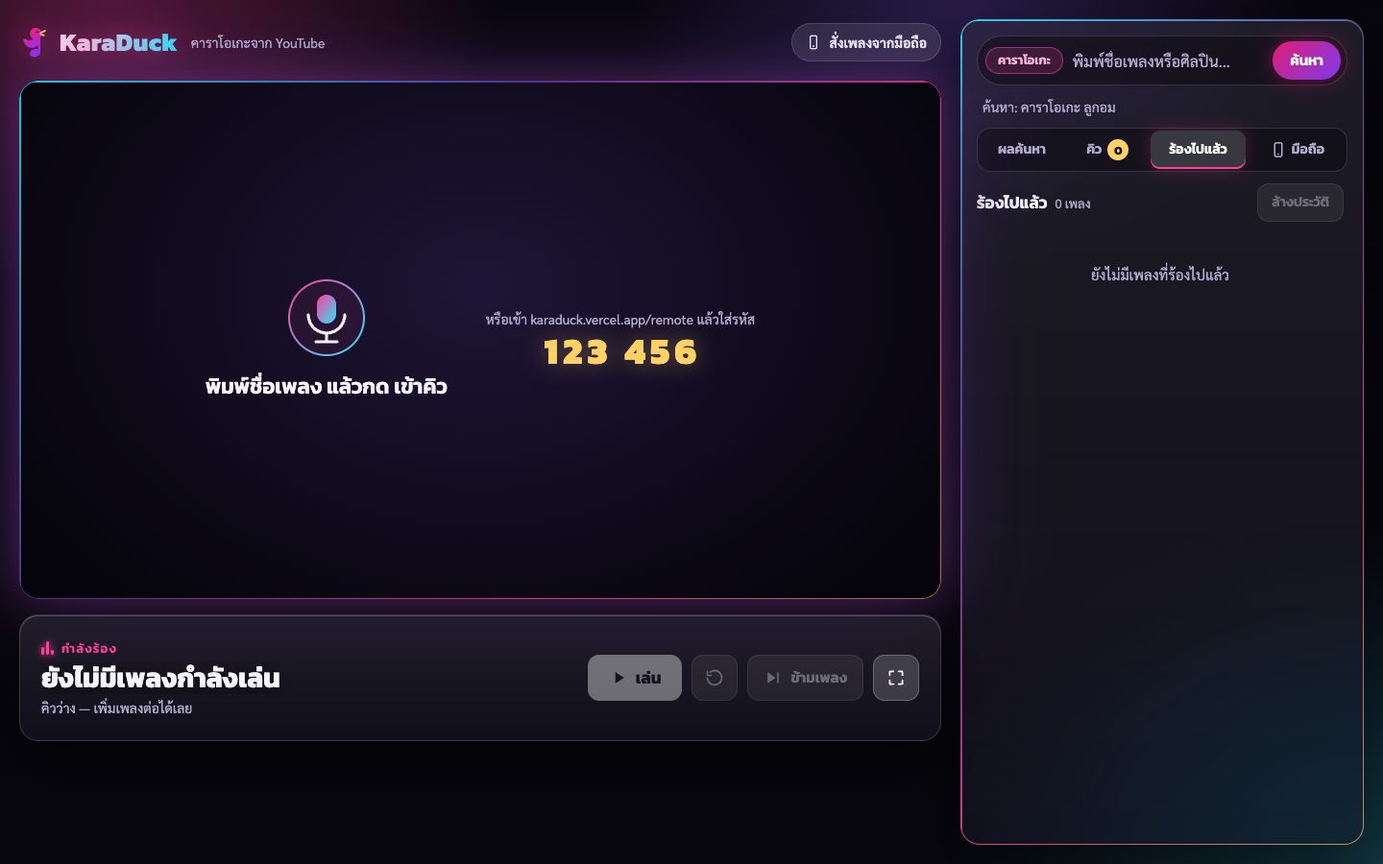
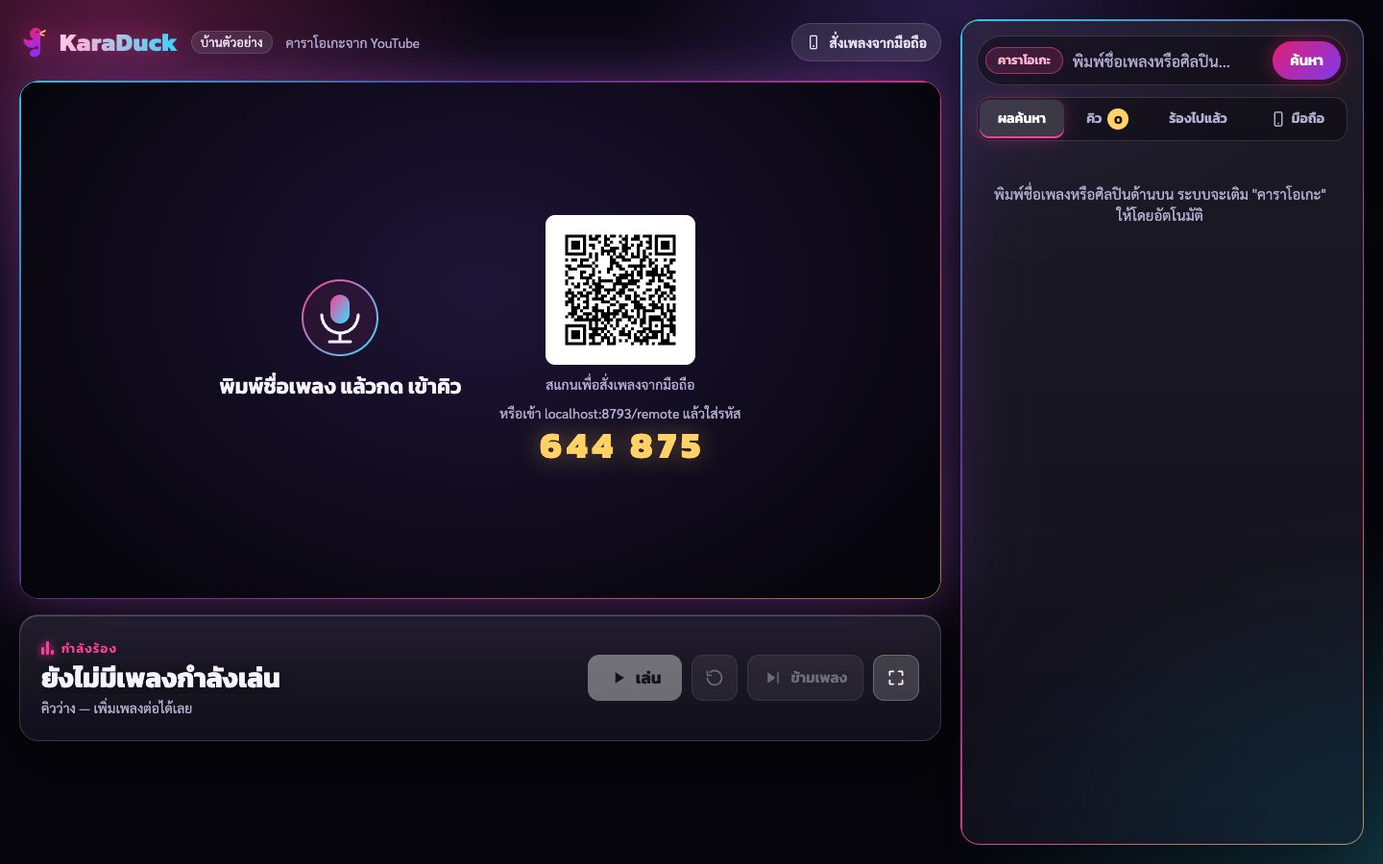
docs: make the docs host-neutral and add a self-hosting guide
Removes references to the author's own deployment; anyone can install
KaraDuck on their own Vercel and Firebase projects.

diff --git a/docs/INSTALL.md b/docs/INSTALL.md
@@ -1,0 +1,243 @@
+# ติดตั้ง KaraDuck บน Vercel และ Firebase ของคุณเอง
+
+KaraDuck ไม่มีเว็บกลางให้ใช้ คู่มือนี้ใช้บัญชีและทรัพยากรของคุณทั้งหมด
+`https://<เว็บของคุณ>` หมายถึงที่อยู่ที่คุณได้หลังนำขึ้น Vercel เช่น `https://your-app.vercel.app`
+ค่าที่มีคำว่า `your-project-id`, `YOUR_...` และอีเมลตัวอย่างด้านล่างต้องแทนด้วยค่าของคุณ
+คำสั่งในคู่มือนี้ให้รันจากโฟลเดอร์โปรเจกต์ ยกเว้นที่ระบุเป็นอย่างอื่น
+
+## 1. เตรียมบัญชีและเครื่องมือ
+
+- บัญชี Google สำหรับ Firebase และบัญชี Vercel
+- Vercel แผนฟรีใช้ได้สำหรับการใช้ส่วนตัวที่ไม่ใช่เชิงพาณิชย์ ตรวจเงื่อนไขและโควตาในบัญชีก่อนใช้จริง
+- Node.js 22 ขึ้นไป (มี npm มาด้วย) และ Git ตรวจด้วย `node --version`, `npm --version`, `git --version`
+- ติดตั้ง Vercel CLI และเข้าสู่ระบบตามคำแนะนำที่ปรากฏ:
+
+```bash
+npm i -g vercel
+vercel login
+```
+
+## 2. ดึงโค้ดและทดสอบ
+
+บน GitHub กด Fork เพื่อเก็บสำเนาไว้ในบัญชีของคุณ แล้วกด Code → HTTPS → คัดลอก URL
+หรือคัดลอก URL ของต้นฉบับเพื่อ clone โดยตรง จากนั้นแทน URL ตัวอย่างในคำสั่งนี้:
+
+```bash
+git clone https://github.com/YOUR_ACCOUNT/YOUR_REPOSITORY.git
+cd YOUR_REPOSITORY
+npm test
+```
+
+โปรเจกต์ไม่มี dependency ให้ติดตั้งและไม่มีขั้น build ไม่ต้องรัน `npm install`
+ผลทดสอบต้องไม่มีรายการ fail ก่อนทำต่อ
+
+## 3. ลองบนเครื่องก่อน โดยไม่ต้องมี Firebase
+
+```bash
+node server.mjs
+```
+
+เปิดลิงก์เจ้าของที่โปรแกรมพิมพ์ออกมาในเทอร์มินัล ลิงก์นี้ให้สิทธิ์ควบคุมห้อง เก็บเป็นส่วนตัว
+ครั้งแรกสร้างห้อง “บ้าน” และบันทึกข้อมูลใน `data/rooms.json` กับกุญแจใน `data/secrets.json`
+รีสตาร์ตแล้วใช้ข้อมูลเดิม หยุดด้วย Ctrl+C
+หน้าเว็บอยู่ที่ `http://localhost:8791` ส่วนมือถือของแขกต้องเชื่อมต่อถึงเครื่องนี้ได้ จึงใช้ที่อยู่เครือข่ายของเครื่องแทน localhost
+
+ถ้าต้องการดูหน้าตาโดยไม่ใช้ห้องจริง เปิด `http://localhost:8791/?demo=1`
+เลือกแท็บด้วย `&tab=results`, `&tab=queue`, `&tab=history`, `&tab=remote` และเพิ่ม `&idle=1` เพื่อดูจอว่าง
+โหมดนี้ใช้สาธิตหน้าตา ไม่ใช่ห้องให้แขกเข้าร่วม
+
+หากพอร์ตถูกใช้ หรืออยากแยกข้อมูลทดลอง:
+
+```bash
+PORT=8792 HOST=127.0.0.1 DATA_DIR=./data-dev node server.mjs
+```
+
+ตัวอย่างนี้รับการเชื่อมต่อจากเครื่องเดียว เปิด `http://localhost:8792` และเก็บข้อมูลใน `data-dev`
+
+## 4. สร้าง Firebase
+
+1. เข้า Firebase Console ด้วยบัญชี Google เลือก Add project ตั้งชื่อโปรเจกต์ แล้วสร้างจนเสร็จ จด Project ID จาก Project settings → General (ตัวอย่าง `your-project-id`)
+2. ไป Build → Realtime Database → Create database เลือกที่ตั้งใกล้ผู้ใช้ เช่น สิงคโปร์ (`asia-southeast1`) **ที่ตั้งฐานข้อมูลเลือกแล้วเปลี่ยนไม่ได้** เลือกเริ่มแบบ locked mode แล้วสร้าง
+3. คัดลอก URL ที่แสดงบนหน้าฐานข้อมูล เช่น `https://your-project-id-default-rtdb.asia-southeast1.firebasedatabase.app` อย่าเดาจากชื่อโปรเจกต์ เพราะ URL อาจต่างกันตามที่ตั้ง
+4. เปิดแท็บ Rules แทนเนื้อหาด้วยกฎจาก [database.rules.json](../database.rules.json) แล้วกด Publish:
+
+```json
+{
+  "rules": {
+    ".read": false,
+    ".write": false,
+    "rooms": {
+      "$room": {
+        ".read": true
+      }
+    }
+  }
+}
+```
+
+กฎนี้ปิดการอ่านและเขียนสาธารณะที่ราก แต่เปิดให้อ่านห้องรายตัวเมื่อรู้รหัสห้อง การเขียนผ่านบัญชีบริการฝั่งเซิร์ฟเวอร์เท่านั้น รายชื่อห้อง `/meta` และ `/usage` ไม่เปิดอ่านสาธารณะ
+ผู้รู้รหัสห้องยังอ่านข้อมูลเพลงและชื่อคนขอได้ จึงไม่ควรใส่ข้อมูลส่วนตัว
+
+5. ไป Build → Authentication → Get started → Sign-in method → Google เปิด Enable เลือกอีเมลติดต่อ แล้ว Save
+6. ที่ Authentication → Settings → Authorized domains เพิ่มโดเมนเว็บของคุณโดยไม่ใส่ `https://` หรือเส้นทาง เช่น `your-app.vercel.app` หากยังไม่มีโดเมน ให้กลับมาทำหลังขั้น 5 และก่อนทดสอบล็อกอิน เพิ่ม `localhost` ด้วยถ้าจะพัฒนาการล็อกอินบนเครื่อง โดเมน preview หรือโดเมนใหม่ต้องเพิ่มแยก
+7. ไป Project settings → General → Your apps → ไอคอนเว็บ `</>` ตั้งชื่อแล้ว Register app ไม่ต้องเปิด Firebase Hosting คัดลอก 4 ค่าจาก `firebaseConfig`: `apiKey`, `authDomain`, `projectId`, `appId` ไม่ต้องติดตั้ง SDK เพิ่มในโปรเจกต์
+8. ไป Project settings → Service accounts → Firebase Admin SDK → Generate new private key → Generate key เก็บไฟล์ JSON ไว้นอกโฟลเดอร์ repo เช่นในโฟลเดอร์ส่วนตัว ใช้บัญชีบริการที่มีสิทธิ์อ่านเขียน Realtime Database ของโปรเจกต์นี้
+
+**ไฟล์กุญแจเป็นความลับ ห้าม commit ห้ามส่งให้ผู้อื่น และควรลบไฟล์จากเครื่องหลังตั้งค่าเสร็จ** หากรั่วให้เพิกถอนกุญแจในบัญชีบริการแล้วสร้างใหม่ ส่วน web config เป็นข้อมูลสำหรับหน้าเว็บ ไม่ใช่กุญแจบัญชีบริการ
+
+## 5. ผูก Vercel และตั้งตัวแปรแวดล้อม
+
+รันในโฟลเดอร์ repo:
+
+```bash
+vercel link
+```
+
+เลือกบัญชีหรือทีมของคุณ เลือกสร้างโปรเจกต์ใหม่และตั้งชื่อที่ว่าง หรือเลือกโปรเจกต์ของคุณที่มีอยู่แล้ว
+อีกทางหนึ่งใช้ `vercel project add YOUR_PROJECT_NAME` แล้ว `vercel link` เลือกโปรเจกต์นั้น
+ไฟล์ตั้งค่า [vercel.json](../vercel.json) กำหนด `public` เป็นเว็บ ไม่มี build และใช้ฟังก์ชันที่สิงคโปร์ (`sin1`) จำกัดเวลา 15 วินาที ไม่ต้องใช้ Firebase Hosting
+
+ตัวแปรทั้งหมดที่ [lib/vercel.mjs](../lib/vercel.mjs) อ่านมีดังนี้ ตั้งใน Environment: **Production**:
+
+| ชื่อ | บังคับหรือไม่ | ความหมาย | ได้ค่าจากไหน |
+|---|---|---|---|
+| `FIREBASE_DB_URL` | บังคับ | URL Realtime Database | ขั้น 4 หน้าฐานข้อมูล |
+| `FIREBASE_CLIENT_EMAIL` | บังคับ | บัญชีบริการ เช่น `firebase-adminsdk-xxxxx@your-project-id.iam.gserviceaccount.com` | `client_email` ในไฟล์กุญแจ |
+| `FIREBASE_PRIVATE_KEY` | บังคับ | กุญแจส่วนตัว รองรับขึ้นบรรทัดใหม่และ `\n` | `private_key` ในไฟล์กุญแจ |
+| `ROOM_SECRET` | บังคับ | ความลับเซ็นสิทธิ์เจ้าของและแขก ใช้ค่าเดิมในการ deploy ครั้งต่อไป | สุ่มตามคำสั่งด้านล่าง |
+| `ADMIN_KEY` | ไม่บังคับถ้าใช้ Google อย่างเดียว | กุญแจผู้ดูแลสำหรับ `tools/room.mjs` | สุ่มเอง หากต้องการใช้ CLI |
+| `PUBLIC_ORIGIN` | ไม่บังคับ แต่ควรตั้ง | ฐาน URL สร้างลิงก์ ถ้าเว้นใช้ HTTPS กับ Host ของคำขอ | โดเมน Production ของคุณ เช่น `https://your-app.vercel.app` |
+| `FIREBASE_WEB_CONFIG` | จำเป็นสำหรับ Google login บนเว็บ | JSON บรรทัดเดียว มี 4 ค่า | web app ในขั้น 4 |
+| `ADMIN_EMAILS` | จำเป็นสำหรับผู้ดูแลผ่าน Google | อีเมล Google ที่อนุญาต คั่นด้วยจุลภาค เช่น `you@example.com,other@example.com` ตัดช่องว่างและเทียบตัวพิมพ์เล็ก | บัญชีผู้ดูแลที่คุณเลือก |
+| `FIREBASE_PROJECT_ID` | ไม่บังคับถ้าอนุมานได้ | โปรเจกต์สำหรับตรวจ ID token ใช้ค่านี้ก่อน จากนั้น `projectId` ใน web config แล้วจึงอนุมานจากบัญชีบริการ | Project settings → General |
+| `SEARCH_DISABLED` | ไม่บังคับ | ค่า `1` ปิดค้นหาและตรวจเพลงฉุกเฉิน | ผู้ติดตั้งเลือก ปกติไม่ต้องตั้ง |
+| `CREATE_DISABLED` | ไม่บังคับ | ค่า `1` บังคับปิดสร้างห้องสาธารณะ แม้ผู้ดูแลเปิดสวิตช์ | ผู้ติดตั้งเลือก ปกติไม่ต้องตั้ง |
+
+ตัวอย่างต่อไปนี้ส่งค่าผ่าน pipe โดยไม่พิมพ์ค่าความลับบนจอ อย่าเปิด shell tracing (`set -x`)
+แทน `/ABSOLUTE/PATH/service-account.json` ด้วยพาธเต็มของไฟล์ที่ดาวน์โหลด (คงเครื่องหมายคำพูดไว้หากมีช่องว่าง):
+
+```bash
+node -e "process.stdout.write(require('crypto').randomBytes(32).toString('base64url'))" | vercel env add ROOM_SECRET production
+node -e "process.stdout.write(require(process.argv[1]).client_email)" "/ABSOLUTE/PATH/service-account.json" | vercel env add FIREBASE_CLIENT_EMAIL production
+node -e "process.stdout.write(JSON.stringify(require(process.argv[1]).private_key).slice(1,-1))" "/ABSOLUTE/PATH/service-account.json" | vercel env add FIREBASE_PRIVATE_KEY production
+```
+
+คำสั่งกุญแจส่วนตัวแปลงการขึ้นบรรทัดใหม่เป็น `\n` จึงส่งเป็นบรรทัดเดียว โค้ดรองรับรูปแบบนี้
+สำหรับ URL และอีเมล ใช้คำสั่งนี้แล้ววางค่าที่พรอมต์ทีละตัว:
+
+```bash
+vercel env add FIREBASE_DB_URL production
+vercel env add PUBLIC_ORIGIN production
+vercel env add ADMIN_EMAILS production
+vercel env add FIREBASE_WEB_CONFIG production
+```
+
+เมื่อถาม `FIREBASE_WEB_CONFIG` ให้วาง JSON บรรทัดเดียวแทนค่าตัวอย่างทั้งสี่จากขั้น 4:
+
+```json
+{"apiKey":"YOUR_WEB_API_KEY","authDomain":"your-project-id.firebaseapp.com","projectId":"your-project-id","appId":"YOUR_WEB_APP_ID"}
+```
+
+อย่าวางตัวแปร JavaScript `const firebaseConfig =` หรือค่าอื่นจากไฟล์กุญแจลงไป
+`FIREBASE_PROJECT_ID` ปกติเว้นได้ถ้า web config ถูกต้อง ถ้าต้องระบุให้ใช้ `vercel env add FIREBASE_PROJECT_ID production`
+ตัวแปรสวิตช์ก็เพิ่มด้วย `vercel env add SEARCH_DISABLED production` หรือ `vercel env add CREATE_DISABLED production` แล้วกรอก `1` เมื่อต้องการปิด
+หากเปลี่ยนค่าที่มีอยู่ ใช้หน้า Vercel → โปรเจกต์ของคุณ → Settings → Environment Variables → แก้ค่าใน Production แล้ว deploy ใหม่
+
+หากต้องใช้เครื่องมือจัดการห้องในเทอร์มินัล ให้สุ่ม `ADMIN_KEY` เพิ่ม:
+
+```bash
+node -e "process.stdout.write(require('crypto').randomBytes(32).toString('base64url'))" | vercel env add ADMIN_KEY production
+```
+
+หากต้องใช้ค่ากุญแจที่สุ่มผ่าน pipe ข้างบน ให้ดูค่าจาก Vercel → Settings → Environment Variables → `ADMIN_KEY` และเก็บในที่เก็บความลับส่วนตัว อย่าใส่ในไฟล์ที่ commit
+ตั้งค่าใน zsh โดยพิมพ์คำสั่งต่อไปนี้ แล้ววางกุญแจเมื่อถาม (ซ่อนการพิมพ์ และไม่บันทึกตัวกุญแจลงประวัติคำสั่ง):
+
+```bash
+read -rs "KARAOKE_ADMIN_KEY?ADMIN_KEY: "
+export KARAOKE_ADMIN_KEY
+```
+
+จากนั้นเรียกเครื่องมือ:
+
+```bash
+node tools/room.mjs list --url https://your-app.vercel.app
+node tools/room.mjs create "ห้องทดสอบ" --url https://your-app.vercel.app
+node tools/room.mjs rotate-owner '<roomId>' --url https://your-app.vercel.app
+node tools/room.mjs delete '<roomId>' --url https://your-app.vercel.app
+```
+
+แทน `<roomId>` ด้วยรหัสจาก list; delete ลบห้องและกู้คืนไม่ได้ ผลสร้างห้องและออกลิงก์ใหม่มีลิงก์เจ้าของ เก็บเป็นส่วนตัว
+CLI ใช้ `KARAOKE_ADMIN_KEY` ไม่ได้ใช้ Google login ของเบราว์เซอร์ ไม่ระบุ `--url` ใช้ `KARAOKE_URL` หรือ `PUBLIC_ORIGIN` ได้
+บนเครื่องใช้ `node tools/room.mjs list --local` ซึ่งอ่านกุญแจจาก `data/secrets.json` เสมอ ไม่อ่าน `DATA_DIR`
+ถ้าใช้โฟลเดอร์อื่น ให้ตั้ง `KARAOKE_ADMIN_KEY` แล้วระบุ `--url` เอง
+
+`node tools/setup.mjs` เป็นทางเลือกสำหรับพิมพ์กุญแจสุ่มและคำแนะนำตัวแปรครบทั้ง 11 ตัว สคริปต์ไม่บันทึกไฟล์หรือเรียกเครือข่าย แต่ผลลัพธ์มีความลับ อย่าเผยแพร่หรือแนบในรายงาน
+
+## 6. นำขึ้นและตรวจการติดตั้ง
+
+```bash
+vercel deploy --prod
+```
+
+จดโดเมน Production ที่ Vercel แสดง ตั้ง `PUBLIC_ORIGIN` ให้ตรง และเพิ่มโดเมนใน Firebase Authorized domains ตามขั้น 4
+**หลังเพิ่มหรือแก้ตัวแปรแวดล้อมทุกครั้งต้อง deploy ใหม่** ด้วยคำสั่งเดิม รวมถึงเมื่อเพิ่งรู้โดเมนแล้วตั้ง `PUBLIC_ORIGIN`
+
+เปิด `https://<เว็บของคุณ>/api/config` ต้องเห็น `"mode":"cloud"` และ `"createEnabled":true` ใน JSON
+ถ้าเห็น `503` พร้อม `not_configured` แปลว่าตัวแปรบังคับอย่างน้อยหนึ่งตัวยังว่างหรือขาด ตรวจทั้งสี่ตัวในตาราง
+
+การเห็น `mode: cloud` อย่างเดียว **ยังไม่ยืนยันว่าฐานข้อมูลใช้ได้**: ถ้าอ่านข้อมูลควบคุมไม่ได้ โค้ดยังตอบสำเร็จแต่ให้ `createEnabled: false`
+ค่านี้ยังเกิดได้เมื่อปิดสวิตช์รับห้องหรือกำหนด `CREATE_DISABLED=1` จึงต้องตรวจการสร้างห้องจริงในขั้นถัดไป
+
+## 7. ใช้งานครั้งแรก
+
+1. เปิด `https://<เว็บของคุณ>` ใส่ชื่อห้องแล้วกด `สร้างห้อง` เครื่องนี้จะเป็นจอหลัก
+2. เปิดแท็บ `มือถือ` ทดสอบ QR หรือลิงก์แขกจากมือถือ และลองเข้า `https://<เว็บของคุณ>/remote` ด้วยรหัส 6 หลัก ค้นหาและเพิ่มเพลง แล้วกดเล่นครั้งแรกบนจอหลักถ้าจำเป็น
+3. เปิด `https://<เว็บของคุณ>/admin` ล็อกอิน Google ด้วยอีเมลที่อยู่ใน `ADMIN_EMAILS` ต้องเห็นห้องที่สร้างไว้ ลองเปิด/ปิดรับสร้างห้องแล้วเปิดกลับ ตรวจว่าห้องเดิมยังใช้งานได้
+4. อ่าน [คู่มือการใช้งาน](MANUAL.md) สำหรับจัดคิว เปลี่ยนรหัสแขก ปิดห้อง และออกลิงก์เจ้าของใหม่ และตรวจรายการใน [REVIEW](REVIEW.md) ก่อนเปิดให้ผู้อื่นใช้
+
+## 8. ป้องกันการใช้เกิน
+
+เพดานต่อไปนี้อยู่ใน [lib/limits.mjs](../lib/limits.mjs) แก้ค่าในไฟล์นี้แล้ว deploy ใหม่ได้:
+
+| ค่าคงที่ | ค่าเริ่มต้น | ผลเมื่อถึงเพดาน |
+|---|---|---|
+| `MAX_ROOMS` | 30 ห้องพร้อมกัน | สร้างสาธารณะได้ `503 rooms_full` |
+| `CREATES_PER_HOUR` | 20 ครั้งต่อชั่วโมงนาฬิกา รวมเว็บ | `429 too_many_rooms` |
+| `IDLE_MS` | 24 ชั่วโมงหลังเขียนข้อมูลคิวล่าสุด | ลบห้องตอนสร้างสาธารณะหรือผู้ดูแลดูรายการ ไม่ใช่งานตามเวลา |
+| `SEARCHES_PER_HOUR` | 120 คำขอต่อห้องต่อชั่วโมงนาฬิกา | `429 search_budget` |
+| `JOIN_FAILS_PER_MINUTE` | ใส่ PIN ผิด 30 ครั้งต่อนาทีนาฬิกา รวมเว็บ | หลังถึงเพดาน join ทั้งหมดได้ `429 too_many_attempts` จนเปลี่ยนนาที; QR และลิงก์ยังใช้ได้ |
+
+การค้นหาและรายงานการเล่นไม่ต่ออายุห้อง มีเพียงคำสั่งเขียนข้อมูลคิว (`q`) เท่านั้น ห้องเก่าที่ `updatedAt` เป็น 0 ยังไม่ถูกลบอัตโนมัติ
+ผู้ดูแลสร้างห้องได้โดยข้ามเพดานจำนวนห้องและความถี่ คิวรอสูงสุด 200 เพลง ประวัติ 30 เพลง กำหนดแยกใน [public/js/store.js](../public/js/store.js)
+
+หน้า `/admin` มีสวิตช์ปิดรับการสร้างห้อง ปิดแล้วห้องเดิมยังใช้งานได้ ส่วน `CREATE_DISABLED=1` บังคับปิดแม้ผู้ดูแลเปิดสวิตช์
+ใช้ `SEARCH_DISABLED=1` เพื่อปิดค้นหาและตรวจเพลงฉุกเฉิน ทั้งสองตัวต้อง deploy ใหม่หลังเปลี่ยน
+
+ตั้งกฎ rate limit เพิ่มใน Vercel Dashboard → โปรเจกต์ของคุณ → Firewall สำหรับเส้นทาง `/api/*` โดยจำกัดตาม IP
+เริ่มจากเพดานที่รองรับจำนวนคนใช้งานจริง ทดสอบทั้งสร้างห้อง เข้า PIN และค้นหา ปรับตามบันทึกการใช้งานและความสามารถของแผนบัญชี
+โค้ดไม่ได้จำกัดราย IP และเพดานในแอปไม่ทดแทน Firewall หรือโควตาของผู้ให้บริการ
+ติดตามการใช้ฟังก์ชันและทราฟฟิกใน Vercel รวมถึงการเชื่อมต่อ พื้นที่ และข้อมูลที่ดาวน์โหลดใน Firebase เป็นระยะ
+
+## 9. ข้อจำกัดและความรับผิดชอบของผู้ติดตั้ง
+
+การค้นหาใช้ช่องทาง InnerTube และการตรวจเพลงอ่านหน้า embed ซึ่งเป็นช่องทางที่ไม่เป็นทางการของ YouTube อาจหยุดทำงานหรือถูกจำกัด IP ได้ทุกเมื่อ
+วิดีโอเล่นผ่านตัวเล่นแบบฝังของ YouTube (IFrame Player API) อาจมีโฆษณา บางเพลงไม่ให้ฝัง และผลตรวจล่วงหน้าไม่รับประกันว่าจะเล่นได้ทุกเครื่อง
+ไม่มีความสามารถปรับคีย์ ตัดเสียงร้อง หรือให้คะแนน
+
+ผู้ติดตั้งต้องตรวจข้อตกลงการใช้บริการของ YouTube, Vercel และ Firebase รวมถึงลิขสิทธิ์การเล่นเพลงด้วยตัวเอง โดยเฉพาะเมื่อเปิดให้คนนอกใช้หรือใช้เชิงพาณิชย์
+แผนฟรีมีโควตาและข้อจำกัดของตัวเอง อาจต้องเปลี่ยนแผนหรือหยุดให้บริการเมื่อใช้เกิน ตรวจข้อมูลในบัญชีของคุณก่อนเปิดใช้งานและติดตามต่อเนื่อง
+
+## 10. แก้ปัญหาที่พบบ่อย
+
+| อาการ | สาเหตุที่ควรตรวจ | วิธีแก้ |
+|---|---|---|
+| `503 not_configured` | ตัวแปรบังคับขาดหรือว่าง หรือตั้งผิด environment | ตรวจ `FIREBASE_DB_URL`, `FIREBASE_CLIENT_EMAIL`, `FIREBASE_PRIVATE_KEY`, `ROOM_SECRET` ใน Production แล้ว deploy ใหม่ |
+| `502 store_failed` ตอนสร้างห้องหรือจัดการห้อง | กุญแจบัญชีบริการผิด ถูกเพิกถอน ไม่มีสิทธิ์ หรือ URL ฐานข้อมูลผิด | ใช้ไฟล์กุญแจของโปรเจกต์เดียวกัน ตรวจ `client_email`, `private_key` และ URL จากหน้าฐานข้อมูล ตั้งใหม่แล้ว deploy อย่าแสดงกุญแจใน log |
+| หน้าเว็บขึ้นออฟไลน์ตลอด | ยังไม่ได้ Publish กฎฐานข้อมูล หรือ URL/การเชื่อมต่อผิด | วางกฎขั้น 4 แล้ว Publish ตรวจ URL และอินเทอร์เน็ต อย่าเปิดเขียนสาธารณะเพื่อแก้ปัญหา |
+| ล็อกอินขึ้น `auth/unauthorized-domain` | โดเมนปัจจุบันไม่อยู่ใน Firebase Authorized domains | เพิ่มชื่อโดเมนที่กำลังเปิดใน Authentication → Settings → Authorized domains แล้วลองใหม่ |
+| ล็อกอินได้แต่ขึ้นไม่มีสิทธิ์ (`not_admin`) | อีเมล Google ไม่อยู่ใน `ADMIN_EMAILS` | เพิ่มอีเมลที่ใช้จริง คั่นรายการด้วยจุลภาค แล้ว deploy ใหม่ |
+| ค้นหาไม่ได้ | YouTube จำกัดหรือเปลี่ยนช่องทาง, `SEARCH_DISABLED=1` หรือเกินงบห้อง | ถ้า `search_disabled` ให้แก้สวิตช์แล้ว deploy; ถ้า `search_budget` รอชั่วโมงถัดไป; ถ้า `upstream_failed` ตรวจการจำกัดจาก YouTube หรือลองรันบนเครื่อง |
+| `mode: cloud` แต่ `createEnabled: false` | สวิตช์ปิดรับห้อง, `CREATE_DISABLED=1` หรืออ่านข้อมูลควบคุมจากฐานข้อมูลไม่ได้ | ตรวจสวิตช์ใน `/admin` ตรวจ env และกุญแจ/URL ฐานข้อมูล การแคชสถานะอาจใช้เวลาถึง 30 วินาที |
+| หน้า admin ไม่พร้อมใช้ (`admin_disabled`) หรือไม่มี Google login | ไม่ได้ตั้ง Google admin ครบ และไม่มี `ADMIN_KEY` | ตรวจ `ADMIN_EMAILS`, `FIREBASE_WEB_CONFIG` ทั้งสี่ค่า และ project id ที่ใช้ตรวจ token แล้ว deploy ใหม่ |
+
+รายละเอียดสัญญา API และการรักษาสิทธิ์อยู่ใน [DESIGN](DESIGN.md)
